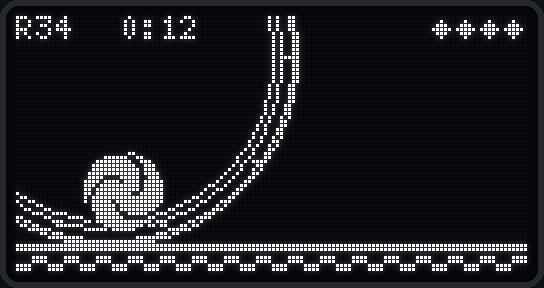
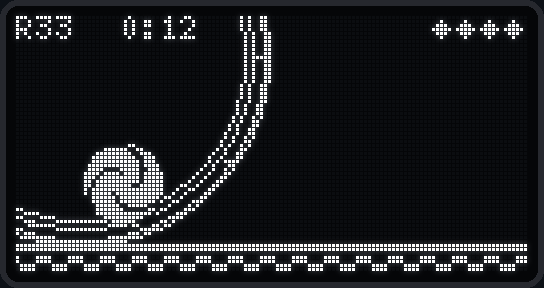
Sonic rulebook level pass: no blind or unwarned hazards, survivable lower routes
- Scrap Brain 1 (x2) and 2: tiny 24-px platforms over spike beds -> wide 44-px platforms with
  rings (upper route) over plain ground with one crab (lower route) (rules 12, 45, 46).
- Chemical Plant 1 climb: spike/flame bed under the springs -> survivable lower route (46, 159).
- Reaction time (67, 124, 130, 131, 141), with tools/sonic_test/out/sight + fix_hazards.py:
  50 ring arcs added as jump cues before hazards met at speed; 22 blind hazards moved out of
  landing spots, 8 still-blind ones removed; second chem crossing moved clear of a drop.
  Fish now show bubbles before each leap.
- Objects per act raised to 384 (rings are objects; ~12 bytes each).
- sight in CI: fails if any hazard is blind or met at speed with no warning.
- Simple hold-right bot: all 8 acts cleared with 0 deaths (was 32).

Claude-Session: https://claude.ai/code/session_01CJ8L3yFWTvggTrx21UwVgr

diff --git a/sonic_watch/sonic_levels.h b/sonic_watch/sonic_levels.h
@@ -80,7 +80,7 @@ static const LvlObj GH1_O[] = {
   {320, 24, L_ARC, 6},                                   // over the first hill
   {430, 0, L_CRAB, 0},                                   // first badnik: flat ground, seen coming
   {360, 0, L_DECO, D_SUN},
-  {520, 30, L_BEE, 0},
+  {568, 30, L_BEE, 0},
   {548, 8, L_RINGS, 3},
   // early upper route: spring → three ledges with rings
   {616, 0, L_SPRING, 0},
@@ -88,7 +88,7 @@ static const LvlObj GH1_O[] = {
   {706, 48, L_PLAT, 32}, {710, 56, L_RINGS, 2},
   {756, 44, L_PLAT, 40}, {762, 52, L_RINGS, 3},
   {740, 0, L_CRAB, 0},                                    // ground route below
-  {910, 0, L_SPIKES, 2}, {900, 34, L_ARC, 4},            // first spikes, with rings showing the jump
+  {958, 0, L_SPIKES, 2}, {900, 34, L_ARC, 4},            // first spikes, with rings showing the jump
   {940, 0, L_DECO, D_PALM},
   {960, 8, L_RINGS, 4},
   {1010, 0, L_CRAB, 0},
@@ -102,7 +102,7 @@ static const LvlObj GH1_O[] = {
   {1600, 0, L_LOOP, 0},                                  // ★ the loop
   {1790, 0, L_DECO, D_PALM}, {1830, 8, L_RINGS, 5},
   {1934, 0, L_SPRING, 0}, {1970, 52, L_PLAT, 40}, {1976, 60, L_RINGS, 3},
-  {2095, 0, L_CRAB, 0},                                  // clear of the ledge drop
+  /* removed: blind crab by the ledge drop (rule 130) */
   {2210, 0, L_DECO, D_SUN},
   // spike valley: hop the ledges or take the high spring
   {2236, 8, L_RINGS, 4},                                 // landing pad: rings, nothing else
@@ -198,8 +198,8 @@ static const LvlObj GH2_O[] = {
   {1640, 0, L_DECO, D_SUN},
   {1720, 0, L_CRAB, 0},
   {1800, 8, L_RINGS, 5},
-  {1900, 28, L_BEE, 0},
-  {1980, 0, L_SPIKES, 1},
+  {1948, 28, L_BEE, 0},
+  {2028, 0, L_SPIKES, 1},
   {2060, 0, L_DECO, D_PALM},
   {2140, 8, L_RINGS, 6},
   {2260, 0, L_DECO, D_SUN},
@@ -210,6 +210,8 @@ static const LvlObj GH2_O[] = {
   {700, 0, L_MONITOR, 2}, {846, 52, L_MONITOR, 1},   // shield, 1-up
   // starposts (checkpoints)
   {1130, 0, L_STARPOST, 0},
+  // ring arcs: jump cues before hazards met at speed (rulebook 131, 141)
+  {206, 34, L_ARC, 5}, {536, 34, L_ARC, 5}, {1412, 34, L_ARC, 5}, {1696, 34, L_ARC, 5},
 };
 
 // =====================================================================
@@ -248,18 +250,18 @@ static const LvlObj CP1_O[] = {
   {1160, 0, L_FLAME, 0},
   // low trap corridor with tubes overhead
   {1296, 20, L_PLAT, 44}, {1302, 28, L_RINGS, 3},
-  {1300, 0, L_FLAME, 0}, {1344, 0, L_SPIKE, 0},
+  {1348, 0, L_FLAME, 0}, {1344, 0, L_SPIKE, 0},
   {1356, 24, L_PLAT, 44}, {1362, 32, L_RINGS, 3},
   {1384, 0, L_FLAME, 0},
   {1416, 28, L_PLAT, 44}, {1422, 36, L_RINGS, 3},
   {1424, 0, L_WALL, 14},
-  {1464, 0, L_FLAME, 0},
+  {1512, 0, L_FLAME, 0},
   {1476, 20, L_PLAT, 44}, {1482, 28, L_RINGS, 3},
   {1524, 0, L_SPIKES, 2},
   {1570, 0, L_DECO, D_PIPE},
   {1700, 0, L_CRAB, 0},
   {1740, 8, L_RINGS, 5},
-  {1806, 26, L_BEE, 0},
+  /* removed: blind (rule 130) */
   {1856, 0, L_FLAME, 0},
   {2000, 0, L_DECO, D_PIPE},
   {2040, 8, L_RINGS, 4},
@@ -267,7 +269,7 @@ static const LvlObj CP1_O[] = {
   {2164, 0, L_SPIKES, 2},
   {2226, 0, L_FLAME, 0},
   {2270, 0, L_DECO, D_PIPE},
-  {2400, 0, L_CHEMX, 0},                                 // ★ second wavy cross
+  {2460, 0, L_CHEMX, 0},  {2465, 34, L_ARC, 5},                                 // ★ second wavy cross (clear of the drop at 2340: rule 130)
   {2560, 8, L_RINGS, 4},
   {2700, 0, L_FLAME, 0},
   {2730, 0, L_CRAB, 0},
@@ -286,8 +288,8 @@ static const LvlObj CP1_O[] = {
   {3250, 150, L_PLAT, 40}, {3256, 158, L_RINGS, 3},
   {3310, 140, L_PLAT, 40}, {3316, 148, L_RINGS, 3},
   {3154, 50, L_PLAT, 40}, {3160, 58, L_RINGS, 3},
-  {3030, 0, L_FLAME, 0}, {3060, 0, L_SPIKES, 3}, {3126, 0, L_FLAME, 0},
-  {3180, 0, L_SPIKES, 3}, {3246, 0, L_FLAME, 0},
+  // lower route under the climb: slower but survivable (rulebook 46, 159), was a spike/flame bed
+  {3078, 0, L_FLAME, 0}, {3150, 0, L_CRAB, 0}, {3246, 0, L_FLAME, 0},
   {3384, 0, L_CRAB, 0},
   {3420, 8, L_RINGS, 5},
   {3490, 0, L_DECO, D_PIPE},
@@ -304,11 +306,11 @@ static const LvlObj CP1_O[] = {
   {4206, 0, L_CRAB, 0},
   {4266, 28, L_BEE, 0},
   {4380, 0, L_SPRING, 0}, {4414, 50, L_PLAT, 44}, {4420, 58, L_RINGS, 4},
-  {4400, 0, L_SPIKES, 4},
+  /* removed: blind (rule 130) */
   {4486, 0, L_WALL, 16},
   {4540, 8, L_RINGS, 3},
-  {4700, 0, L_FLAME, 0}, {4740, 0, L_SPIKES, 2},
-  {4806, 0, L_CRAB, 0},
+  {4700, 0, L_FLAME, 0}, {4788, 0, L_SPIKES, 2},
+  /* removed: blind (rule 130) */
   {4866, 0, L_FLAME, 0},
   {4920, 8, L_RINGS, 5},
   {5100, 0, L_DECO, D_PIPE},
@@ -322,6 +324,8 @@ static const LvlObj CP1_O[] = {
   {560, 0, L_MONITOR, 2}, {1890, 0, L_MONITOR, 3}, {3430, 0, L_MONITOR, 0}, {3212, 154, L_MONITOR, 1},   // shield, star, shoes, 1-up
   // starposts (checkpoints)
   {1740, 0, L_STARPOST, 0}, {3710, 0, L_STARPOST, 0},
+  // ring arcs: jump cues before hazards met at speed (rulebook 131, 141)
+  {276, 34, L_ARC, 5}, {396, 34, L_ARC, 5}, {1832, 34, L_ARC, 5}, {2080, 34, L_ARC, 5}, {2676, 34, L_ARC, 5}, {2706, 34, L_ARC, 5}, {3500, 34, L_ARC, 5}, {3542, 34, L_ARC, 5}, {3762, 34, L_ARC, 5}, {3976, 34, L_ARC, 5}, {4182, 34, L_ARC, 5}, {4242, 34, L_ARC, 5}, {4842, 34, L_ARC, 5}, {5242, 34, L_ARC, 5}, {5342, 34, L_ARC, 5},
 };
 
 // CHEMICAL PLANT ACT 2 — a short trap run to the boss.
@@ -340,7 +344,7 @@ static const LvlObj CP2_O[] = {
   {754, 52, L_PLAT, 40}, {760, 60, L_RINGS, 3},
   {700, 0, L_FLAME, 0}, {740, 0, L_SPIKES, 3}, {810, 0, L_FLAME, 0},
   {870, 0, L_WALL, 14},
-  {1000, 0, L_FLAME, 0}, {1030, 20, L_PLAT, 44}, {1036, 28, L_RINGS, 3},
+  {1048, 0, L_FLAME, 0}, {1030, 20, L_PLAT, 44}, {1036, 28, L_RINGS, 3},
   {1080, 0, L_SPIKES, 2}, {1110, 0, L_FLAME, 0},
   {1170, 26, L_BEE, 0},
   {1240, 0, L_CRAB, 0},
@@ -352,7 +356,7 @@ static const LvlObj CP2_O[] = {
   {1800, 8, L_RINGS, 4},
   {1860, 0, L_SPIKES, 2},
   {2000, 0, L_DECO, D_PIPE},
-  {2060, 28, L_BEE, 0},
+  /* removed: blind (rule 130) */
   {2140, 8, L_RINGS, 6},
   {2300, 0, L_DECO, D_PIPE},
   {2400, 8, L_RINGS, 4},
@@ -362,6 +366,8 @@ static const LvlObj CP2_O[] = {
   {900, 0, L_MONITOR, 2}, {774, 52, L_MONITOR, 1},   // shield, 1-up
   // starposts (checkpoints)
   {1350, 0, L_STARPOST, 0},
+  // ring arcs: jump cues before hazards met at speed (rulebook 131, 141)
+  {176, 34, L_ARC, 5}, {1216, 34, L_ARC, 5}, {1476, 34, L_ARC, 5}, {1516, 34, L_ARC, 5},
 };
 
 // =====================================================================
@@ -410,7 +416,7 @@ static const LvlObj CN1_O[] = {
   {2000, 50, L_BUMPER, 0}, {1900, 64, L_BUMPER, 0}, {1980, 64, L_BUMPER, 0},
   {1870, 28, L_RINGS, 6}, {1916, 76, L_RINGS, 6},
   {2120, 0, L_DECO, D_NEON},
-  {2200, 0, L_CRAB, 0},
+  {2248, 0, L_CRAB, 0},
   {2250, 28, L_BEE, 0},
   {2290, 8, L_RINGS, 5},
   {2380, 18, L_PLAT, 28}, {2386, 26, L_RINGS, 2}, {2416, 0, L_SPIKES, 3}, {2420, 30, L_RINGS, 3},
@@ -460,6 +466,10 @@ static const LvlObj CN1_O[] = {
   {600, 0, L_MONITOR, 2}, {2050, 0, L_MONITOR, 3}, {3680, 0, L_MONITOR, 0}, {2676, 130, L_MONITOR, 1},   // shield, star, shoes, 1-up
   // starposts (checkpoints)
   {1830, 0, L_STARPOST, 0}, {3850, 0, L_STARPOST, 0},
+  // ring arcs: jump cues before hazards met at speed (rulebook 131, 141)
+  {536, 34, L_ARC, 5}, {3516, 34, L_ARC, 5}, {5036, 34, L_ARC, 5},
+  // ring arcs: jump cues before hazards met at speed (rulebook 131, 141)
+  {2226, 34, L_ARC, 5},
 };
 
 // CASINO NIGHT ACT 2 — two pinball bowls and a bumper chain, then the boss.
@@ -476,12 +486,12 @@ static const LvlObj CN2_O[] = {
   {376, 44, L_BUMPER, 0}, {416, 44, L_BUMPER, 0}, {396, 62, L_BUMPER, 0},
   {370, 30, L_RINGS, 5},
   {600, 0, L_DECO, D_NEON},
-  {660, 28, L_BEE, 0},
+  /* removed: blind (rule 130) */
   {700, 8, L_RINGS, 5},
   {916, 0, L_SPRING, 0},
   {880, 40, L_BUMPER, 0}, {956, 40, L_BUMPER, 0}, {918, 56, L_BUMPER, 0},
   {890, 26, L_RINGS, 5},
-  {1100, 0, L_CRAB, 0},
+  {1148, 0, L_CRAB, 0},
   {1160, 0, L_DECO, D_NEON},
   {1360, 24, L_BUMPER, 0}, {1400, 28, L_BUMPER, 0}, {1440, 24, L_BUMPER, 0},
   {1480, 28, L_BUMPER, 0},
@@ -498,6 +508,8 @@ static const LvlObj CN2_O[] = {
   {760, 0, L_MONITOR, 2}, {1820, 0, L_MONITOR, 1},   // shield, 1-up
   // starposts (checkpoints)
   {1140, 0, L_STARPOST, 0},
+  // ring arcs: jump cues before hazards met at speed (rulebook 131, 141)
+  {1676, 34, L_ARC, 5},
 };
 
 // =====================================================================
@@ -529,11 +541,11 @@ static const LvlObj SB1_O[] = {
   {880, 6, L_SAW, 0},
   {930, 0, L_DECO, D_GEAR},
   // girder bridge over a spike pit
-  {1040, 16, L_PLAT, 24}, {1046, 24, L_RINGS, 2}, {1066, 0, L_SPIKES, 2},
-  {1090, 20, L_PLAT, 24}, {1096, 28, L_RINGS, 2}, {1116, 0, L_SPIKES, 2},
-  {1140, 16, L_PLAT, 24}, {1146, 24, L_RINGS, 2}, {1166, 0, L_SPIKES, 2},
-  {1150, 44, L_SAW, 0},
-  {1190, 20, L_PLAT, 24}, {1196, 28, L_RINGS, 2}, {1216, 0, L_SPIKES, 2},
+  // upper route: wide platforms with rings (faster, rewards); lower route: the ground, one crab
+  {1040, 18, L_PLAT, 44}, {1048, 26, L_RINGS, 3},
+  {1110, 22, L_PLAT, 44}, {1118, 30, L_RINGS, 3},
+  {1180, 18, L_PLAT, 44}, {1188, 26, L_RINGS, 3},
+  {1150, 58, L_SAW, 0}, {1120, 0, L_CRAB, 0},
   {1240, 30, L_BEE, 0},
   {1360, 0, L_FLAME, 0}, {1400, 0, L_FLAME, 0},
   {1440, 0, L_DECO, D_GEAR},
@@ -553,7 +565,7 @@ static const LvlObj SB1_O[] = {
   {1950, 0, L_DECO, D_GEAR},
   {1990, 6, L_SAW, 0}, {2050, 6, L_SAW, 0},
   {2010, 30, L_RINGS, 4},
-  {2120, 0, L_FLAME, 0},
+  {2168, 0, L_FLAME, 0},
   {2160, 28, L_BEE, 0},
   {2190, 18, L_PLAT, 28}, {2196, 26, L_RINGS, 2}, {2226, 0, L_SPIKES, 3}, {2230, 30, L_RINGS, 3},
   {2360, 0, L_CRAB, 0},
@@ -563,18 +575,17 @@ static const LvlObj SB1_O[] = {
   {2620, 28, L_SAW, 0}, {2600, 8, L_RINGS, 5},
   {2760, 0, L_FLAME, 0}, {2800, 0, L_FLAME, 0}, {2840, 0, L_FLAME, 0},
   {2780, 24, L_RINGS, 4},
-  {2960, 6, L_SAW, 0},
+  {3008, 6, L_SAW, 0},
   {3000, 30, L_BEE, 0},
   {3040, 0, L_DECO, D_GEAR},
   // long girder bridge
-  {3140, 16, L_PLAT, 24}, {3146, 24, L_RINGS, 2}, {3166, 0, L_SPIKES, 2},
-  {3190, 22, L_PLAT, 24}, {3196, 30, L_RINGS, 2}, {3216, 0, L_SPIKES, 2},
-  {3240, 16, L_PLAT, 24}, {3246, 24, L_RINGS, 2}, {3266, 0, L_SPIKES, 2},
-  {3250, 46, L_SAW, 0},
-  {3290, 22, L_PLAT, 24}, {3296, 30, L_RINGS, 2}, {3316, 0, L_SPIKES, 2},
-  {3340, 16, L_PLAT, 24}, {3346, 24, L_RINGS, 2}, {3366, 0, L_SPIKES, 2},
+  // upper route over a plain lower route (was tiny platforms over spike beds)
+  {3140, 18, L_PLAT, 44}, {3148, 26, L_RINGS, 3},
+  {3210, 24, L_PLAT, 44}, {3218, 32, L_RINGS, 3},
+  {3280, 18, L_PLAT, 44}, {3288, 26, L_RINGS, 3},
+  {3250, 60, L_SAW, 0}, {3240, 0, L_CRAB, 0},
   {3400, 30, L_BEE, 0},
-  {3560, 0, L_CRAB, 0},
+  {3608, 0, L_CRAB, 0},
   {3600, 6, L_SAW, 0},
   {3640, 8, L_RINGS, 4},
   {3760, 0, L_WALL, 16},
@@ -582,7 +593,7 @@ static const LvlObj SB1_O[] = {
   {3840, 0, L_DECO, D_GEAR},
   {3960, 0, L_SPRING, 0}, {3994, 50, L_PLAT, 40}, {4000, 58, L_RINGS, 4},
   {3980, 0, L_SPIKES, 3}, {4040, 0, L_FLAME, 0},
-  {4140, 6, L_SAW, 0}, {4200, 6, L_SAW, 0}, {4260, 6, L_SAW, 0},
+  {4140, 6, L_SAW, 0}, {4200, 6, L_SAW, 0}, {4308, 6, L_SAW, 0},
   {4160, 30, L_RINGS, 6},
   {4320, 28, L_BEE, 0},
   {4380, 0, L_FLAME, 0},
@@ -606,6 +617,8 @@ static const LvlObj SB1_O[] = {
   {480, 0, L_MONITOR, 2}, {2400, 0, L_MONITOR, 3}, {4070, 0, L_MONITOR, 0}, {1918, 150, L_MONITOR, 1},   // shield, star, shoes, 1-up
   // starposts (checkpoints)
   {2080, 0, L_STARPOST, 0}, {3830, 0, L_STARPOST, 0},
+  // ring arcs: jump cues before hazards met at speed (rulebook 131, 141)
+  {156, 34, L_ARC, 5}, {336, 34, L_ARC, 5}, {716, 34, L_ARC, 5}, {856, 34, L_ARC, 5}, {1376, 34, L_ARC, 5}, {1456, 34, L_ARC, 5}, {1636, 34, L_ARC, 5}, {1762, 34, L_ARC, 7}, {2136, 34, L_ARC, 5}, {2336, 34, L_ARC, 5}, {2736, 34, L_ARC, 5}, {2976, 34, L_ARC, 5}, {3962, 34, L_ARC, 7}, {4296, 34, L_ARC, 5}, {4356, 34, L_ARC, 5}, {4676, 34, L_ARC, 5}, {5236, 34, L_ARC, 5},
 };
 
 // SCRAP BRAIN ACT 2 — saws, a girder bridge and flame jets, then the final boss.
@@ -621,11 +634,11 @@ static const LvlObj SB2_O[] = {
   {300, 0, L_FLAME, 0}, {340, 0, L_FLAME, 0},
   {450, 0, L_WALL, 14},
   {520, 28, L_SAW, 0}, {500, 8, L_RINGS, 5},
-  {640, 16, L_PLAT, 24}, {646, 24, L_RINGS, 2}, {666, 0, L_SPIKES, 2},
-  {690, 20, L_PLAT, 24}, {696, 28, L_RINGS, 2}, {716, 0, L_SPIKES, 2},
-  {740, 16, L_PLAT, 24}, {746, 24, L_RINGS, 2}, {766, 0, L_SPIKES, 2},
-  {790, 20, L_PLAT, 24}, {796, 28, L_RINGS, 2}, {816, 0, L_SPIKES, 2},
-  {760, 44, L_SAW, 0},
+  // upper route over a plain lower route (was tiny platforms over spike beds)
+  {640, 18, L_PLAT, 44}, {648, 26, L_RINGS, 3},
+  {710, 22, L_PLAT, 44}, {718, 30, L_RINGS, 3},
+  {780, 18, L_PLAT, 40},
+  {760, 58, L_SAW, 0}, /* removed: blind (rule 130) */
   {880, 30, L_BEE, 0},
   {960, 0, L_DECO, D_GEAR},
   {1080, 6, L_SAW, 0}, {1140, 6, L_SAW, 0},
@@ -645,9 +658,11 @@ static const LvlObj SB2_O[] = {
   // springs flush against the tall cliff faces (miss the top → land back on the spring)
   {394, 0, L_SPRING, 0},
   // item monitors (TV boxes)
-  {610, 0, L_MONITOR, 2}, {802, 20, L_MONITOR, 1},   // shield, 1-up
+  {610, 0, L_MONITOR, 2}, {800, 18, L_MONITOR, 1},   // shield, 1-up
   // starposts (checkpoints)
   {1170, 0, L_STARPOST, 0},
+  // ring arcs: jump cues before hazards met at speed (rulebook 131, 141)
+  {176, 34, L_ARC, 5}, {316, 34, L_ARC, 5}, {496, 34, L_ARC, 5}, {1436, 34, L_ARC, 5}, {1536, 34, L_ARC, 5},
 };
 
 // [zone][act]

diff --git a/tools/sonic_test/sight.cpp b/tools/sonic_test/sight.cpp
@@ -21,8 +21,8 @@ int main(int argc, char **argv) {
   int bad = 0;
   for (int z = 0; z < 4; z++) for (int a = 0; a < 2; a++) {
     startGame(); startAct(z, a); trState = TR_NONE; trLevel = 0;
-    static int16_t seenAt[256]; static bool done[256];
-    for (int i = 0; i < 256; i++) { seenAt[i] = -1; done[i] = false; }
+    static int16_t seenAt[sizeof objs / sizeof objs[0]]; static bool done[sizeof objs / sizeof objs[0]];
+    for (unsigned i = 0; i < sizeof objs / sizeof objs[0]; i++) { seenAt[i] = -1; done[i] = false; }
     int best = 0, bestT = 0;
     for (int t = 0; t < 30 * 200 && mode == GAME && !bossOn && !goalT; t++) {
       if (px > best + 4) { best = px; bestT = t; }
@@ -30,7 +30,7 @@ int main(int argc, char **argv) {
       if (stall > 6) h |= (stall % 24) < 18 ? B_MID : 0;
       if (stall > 60 && (stall % 90) < 20) h = B_LEFT;
       frame(h);
-      for (int i = 0; i < 256; i++) {
+      for (unsigned i = 0; i < sizeof objs / sizeof objs[0]; i++) {
         Obj &o = objs[i];
         if (!o.live || done[i]) continue;
         if (!(o.kind == 0 || o.kind == 2 || o.kind == 4 || o.kind == 8 || o.kind == 10 || o.kind == 11)) continue;
@@ -41,14 +41,27 @@ int main(int argc, char **argv) {
           done[i] = true;
           float warn = seenAt[i] < 0 ? 0 : (t - seenAt[i]) / 30.0f;
           float spd = abs(fvx) / 256.0f;
-          bool flag = warn < WARN && spd > 3.0f;               // fast and little warning
-          if (flag) bad++;
-          if (all || flag) printf("  %s %-6s at x=%5d (design %4d): seen %.2f s ahead at %.1f px/step%s\n",
-                                  ACTN[z][a], NAME(o.kind), ox, ox * ZD / ZN, warn, spd, flag ? "  << too late" : "");
+          // A rising ring arc just before it is the classic warning (rulebook 131, 141); fish show
+          // bubbles before every leap
+          bool cue = o.kind == 11;
+          for (unsigned r = 0; r < sizeof objs / sizeof objs[0] && !cue; r++) {
+            Obj &q = objs[r];
+            if (q.live && q.kind == 1 && q.x >= ox - 110 && q.x <= ox + 10 && groundAt(q.x) - q.y >= 20) cue = true;
+          }
+          const char *why = 0;
+          if (warn < 0.1f && spd > 2.0f && o.kind != 11) why = "blind";   // only seen on arrival (rule 130); fish bubble first
+          else if (warn < WARN && spd > 4.5f && !cue) why = "fast";   // at speed with no warning (67, 124)
+          if (why) bad++;
+          if (all || why) printf("  %s %-6s at x=%5d (design %4d): seen %.2f s ahead at %.1f px/step%s%s\n",
+                                  ACTN[z][a], NAME(o.kind), ox, ox * ZD / ZN, warn, spd, cue ? " (ring cue)" : "",
+                                  why ? (why[0] == 'b' ? "  << blind" : "  << fast, no warning") : "");
+          // level-data position: where it was placed (crabs and bees patrol away from it)
+          int16_t home = (o.kind == 2 || o.kind == 4) ? o.home : ox;
+          if (why && getenv("FIXLIST")) fprintf(stderr, "FIX %s %d %d %s\n", ACTN[z][a], o.kind, home * ZD / ZN, why);
         }
       }
     }
   }
-  printf("%d hazard(s) met at speed with under 0.5 s of warning\n", bad);
+  printf("%d hazard(s) blind, or met at speed with no warning\n", bad);
   return 0;
 }

diff --git a/tools/sonic_test/fix_hazards.py b/tools/sonic_test/fix_hazards.py
@@ -1,0 +1,48 @@
+#!/usr/bin/env python3
+"""Apply the reaction-time checker's findings to sonic_watch/sonic_levels.h (rulebook 67, 124, 130,
+131, 141). Reads 'FIX <act> <kind> <design x> <blind|fast>' lines on stdin (out/sight with FIXLIST=1).
+  fast  -> add a rising ring arc that peaks over the hazard (the classic 'jump here' cue)
+  blind -> move the hazard 48 design px further on, out of the landing spot; with --remove-blind,
+           delete it instead (used on a second pass for ones that are still blind)
+"""
+import re, sys
+P = 'sonic_watch/sonic_levels.h'
+KIND = {0: ('L_SPIKE', 'L_SPIKES'), 2: ('L_CRAB',), 4: ('L_BEE',), 8: ('L_FLAME',), 10: ('L_SAW',)}
+remove_blind = '--remove-blind' in sys.argv
+s = open(P).read()
+ENT = re.compile(r'\{(-?\d+), (-?\d+), (L_[A-Z]+), (-?\w+)\}')
+def act_span(act):
+    i = s.index('static const LvlObj %s_O[] = {' % act); return i, s.index('\n};', i)
+done, arcs = set(), {}
+for line in sys.stdin:
+    p = line.split()
+    if len(p) != 5 or p[0] != 'FIX': continue
+    act, kind, dx, why = p[1], int(p[2]), int(p[3]), p[4]
+    if kind not in KIND: continue
+    a, b = act_span(act)
+    best = None
+    for m in ENT.finditer(s, a, b):
+        x, h, k, arg = int(m.group(1)), int(m.group(2)), m.group(3), m.group(4)
+        if k not in KIND[kind]: continue
+        n = int(arg) if k == 'L_SPIKES' else 1
+        lo, hi = (x - 8, x + 12 * n + 8) if kind == 0 else (x - 6, x + 6)
+        if lo <= dx <= hi and (best is None or abs(x - dx) < abs(best[0] - dx)): best = (x, h, k, arg, m.start(), m.end(), n)
+    if not best: print('no entry for', line.strip()); continue
+    x, h, k, arg, ms, me, n = best
+    if (act, ms) in done: continue
+    done.add((act, ms))
+    old = s[ms:me]
+    if why == 'fast':
+        centre = x + 6 * n if kind == 0 else x
+        cnt = max(5, (12 * n + 36) // 12 + 1) | 1            # odd, so the middle ring is the peak
+        arcs.setdefault(act, []).append('{%d, 34, L_ARC, %d}' % (centre - 6 * (cnt - 1), cnt))
+    elif remove_blind:
+        end = me + 1 if s[me:me + 1] == ',' else me               # take its comma with it
+        s = s[:ms] + '/* removed: blind (rule 130) */' + s[end:]
+    else:
+        s = s[:ms] + '{%d, %s, %s, %s}' % (x + 48, h, k, arg) + s[me:]
+    print(act, why, old, '->', 'arc' if why == 'fast' else ('removed' if remove_blind else '+48'))
+for act, lst in arcs.items():
+    a, b = act_span(act)
+    s = s[:b] + '\n  // ring arcs: jump cues before hazards met at speed (rulebook 131, 141)\n  ' + ', '.join(lst) + ',' + s[b:]
+open(P, 'w').write(s)

diff --git a/tools/sonic_test/check.cpp b/tools/sonic_test/check.cpp
@@ -70,9 +70,9 @@ int main(){
     printf("  %s ground y %d..%d (%d px), highest ledge y %d -> total vertical %d px (%.1f screens)\n",NAMES[z][a],lo,hi,hi-lo,topPlat,hi-topPlat,(hi-topPlat)/64.0);
     for(int i=0;i<A->nObj;i++) if(A->obj[i].kind==L_DECO) for(int j=i+1;j<A->nObj;j++) if(A->obj[j].kind==L_DECO && abs(A->obj[j].x-A->obj[i].x)<32){ printf("  %s deco at %d and %d closer than 32 px\n",NAMES[z][a],A->obj[i].x,A->obj[j].x); bad++; }
     objs++; // goal
-    printf("%s: len %5d  par %2ds  objects %3d/256  plats %2d/64  rings %3d  hazards/enemies %3d  max slope %d/32  cliffs %d (max %d)\n",
+    printf("%s: len %5d  par %2ds  objects %3d/384  plats %2d/64  rings %3d  hazards/enemies %3d  max slope %d/32  cliffs %d (max %d)\n",
       NAMES[z][a],A->len,A->parSec,objs,plats,rings,hazards,maxSlope,nCliff,maxCliff);
-    if(objs>256||plats>64){printf("  OVER CAPACITY\n");bad++;}
+    if(objs>384||plats>64){printf("  OVER CAPACITY\n");bad++;}
   }
   printf(bad? "\n%d problems\n":"\nall checks passed\n",bad);
 }
